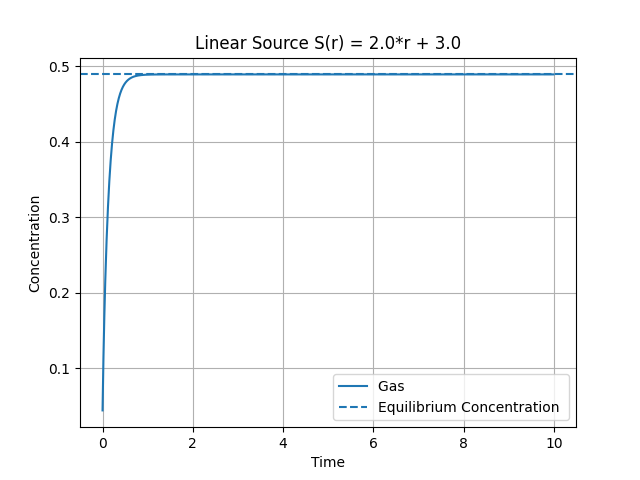
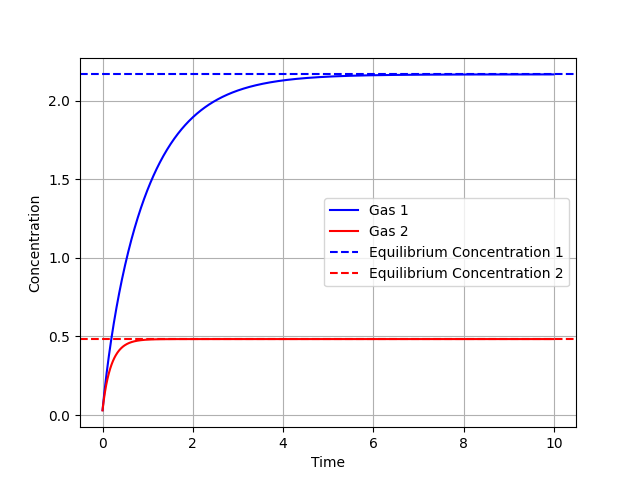
SD_2Eq_General_Source

diff --git a/utilities/MMS_verification/spectral_diffusion_algorithm_2_eqGS.py b/utilities/MMS_verification/spectral_diffusion_algorithm_2_eqGS.py
@@ -1,0 +1,127 @@
+import math
+import numpy as np
+import matplotlib.pyplot as plt
+
+def SpectralDiffusion2equations(gas_1, gas_2, initial_condition_gas_1, initial_condition_gas_2, parameter, increment):
+
+	n = 0
+	np1 = 1
+
+	diffusion_rate1 = 0.0
+	diffusion_rate2 = 0.0
+
+	diffusion_rate_coeff1 = 0.0
+	diffusion_rate_coeff2 = 0.0
+
+	source_rate_coeff_1 = 0.0
+	source_rate_coeff_2 = 0.0
+
+	source_rate1 = 0.0
+	source_rate2 = 0.0
+
+	projection_coeff = 0.0
+
+	gas_1_solution = 0.0
+	gas_2_solution = 0.0
+
+	pi = math.pi
+
+	diffusion_rate_coeff1 = pi**2 * parameter[1] / parameter[3]**2 # pi^2 * D1 / a^2
+	diffusion_rate_coeff2 = pi**2 * parameter[2] / parameter[3]**2 # pi^2 * D2 / a^2
+
+	projection_coeff = math.sqrt(8.0 / pi)
+
+	# source_rate_coeff_1 = projection_coeff * parameter[4] # - 2 sqrt(2/pi) * S1
+	# source_rate_coeff_2 = projection_coeff * parameter[5] # - 2 sqrt(2/pi) * S2
+
+	for n in range(int(parameter[0])):
+		np1 = n + 1
+		n_c = -(-1)**np1 / np1
+		n_coeff1 = - ((-1)**np1 / np1) * (parameter[3] * parameter[4] + parameter[5]) + (2 * parameter[3] * parameter[4]) * ((-1)**np1 - 1) / (np1**3 * pi**2)
+		n_coeff2 = - ((-1)**np1 / np1) * (parameter[3] * parameter[6] + parameter[7]) + (2 * parameter[3] * parameter[6]) * ((-1)**np1 - 1) / (np1**3 * pi**2)
+
+
+		diffusion_rate1 = diffusion_rate_coeff1 * np1**2 # pi^2 * D1 * n^2 / a^2
+		diffusion_rate2 = diffusion_rate_coeff2 * np1**2 # pi^2 * D2 * n^2 / a^2
+
+		source_rate1 = projection_coeff * n_coeff1 
+		source_rate2 = projection_coeff * n_coeff2
+
+		coeff_matrix = [
+			1.0 + (diffusion_rate1 + parameter[9] + parameter[10]) * increment,
+			- parameter[8] * increment,
+			- parameter[9] * increment,
+			1.0 + (diffusion_rate2 + parameter[8] + parameter[10]) * increment
+		]
+
+		initial_conditions = [
+			initial_condition_gas_1[n] + source_rate1 * increment,
+			initial_condition_gas_2[n] + source_rate2 * increment
+		]
+
+		Laplace2x2(coeff_matrix, initial_conditions)
+
+		initial_condition_gas_1[n] = initial_conditions[0]
+		initial_condition_gas_2[n] = initial_conditions[1]
+
+		gas_1_solution += projection_coeff * n_c * initial_conditions[0] / ((4.0 / 3.0) * pi)
+		gas_2_solution += projection_coeff * n_c * initial_conditions[1] / ((4.0 / 3.0) * pi)
+
+	gas_1[0] = gas_1_solution
+	gas_2[0] = gas_2_solution
+
+
+def Laplace2x2(A, b):
+	detA = A[0] * A[3] - A[1] * A[2]
+
+	if detA != 0.0:
+		detX = b[0] * A[3] - b[1] * A[1]
+		detY = b[1] * A[0] - b[0] * A[2]
+		b[0] = detX / detA
+		b[1] = detY / detA
+
+def main():
+
+	num_steps = 1000
+	increment = 0.01
+
+	time_vector = np.arange(num_steps) * increment
+
+	n_modes = 40
+	D1 = 0.1
+	D2 = 0.5
+	a = 1.0
+  # Source S1(r) = A1 * r + B1
+	A1,B1 = [2.0, 2.0]
+  # Source S1(r) = A1 * r + B1
+	A2,B2 = [1.0, 3.0]
+	b = 0.0
+	g = 0.0
+	L = 0.0
+
+	parameter = [n_modes, D1, D2, a, A1, B1, A2, B2, b, g, L]
+
+	initial_condition_gas_1 = np.zeros(parameter[0])
+	initial_condition_gas_2 = np.zeros(parameter[0])
+
+	gas_1 = np.zeros(num_steps)
+	gas_2 = np.zeros(num_steps)
+
+	for i in range(num_steps):
+		SpectralDiffusion2equations(gas_1[i:i+1], gas_2[i:i+1], initial_condition_gas_1, initial_condition_gas_2, parameter, increment)
+
+	c_eq1 = (-6 * a**2 / D1) * ( -((A1 * a + B1) / 90) + ( a * A1 / 240)  )
+	c_eq2 = (-6 * a**2 / D2) * ( -((A2 * a + B2) / 90) + ( a * A2 / 240)  )
+
+	plt.plot(time_vector, gas_1, color = 'b', label='Gas 1')
+	plt.plot(time_vector, gas_2, color = 'r', label='Gas 2')
+	plt.axhline(y=c_eq1, linestyle='--', color = 'b', label='Equilibrium Concentration 1')
+	plt.axhline(y=c_eq2, linestyle='--', color = 'r', label='Equilibrium Concentration 2')
+	plt.xlabel('Time')
+	plt.ylabel('Concentration')
+	plt.legend()
+	plt.grid()
+	plt.savefig('output.png')
+
+if __name__ == "__main__":
+	main()

diff --git a/utilities/MMS_verification/spectral_diffusion_algorithm_linear_source.py b/utilities/MMS_verification/spectral_diffusion_algorithm_linear_source.py
@@ -4,7 +4,7 @@ import matplotlib.pyplot as plt
 
 def SpectralDiffusion1equation(gas, initial_condition_gas, parameter, increment):
 
-#parameter = [n_modes, D1, a, S1] #We dont need b,g, nor L since we're only considering diffusion
+#parameter = [n_modes, D1, a, A, B]
 
 	n = 0
 	np1 = 1
@@ -18,8 +18,6 @@ def SpectralDiffusion1equation(gas, initial_condition_gas, parameter, increment)
 	
 	diffusion_rate_coeff = pi**2 * parameter[1] / parameter[2]**2 # pi^2 * D / a^2
 	projection_coeff = math.sqrt(8.0 / pi)
-	#source_rate_coeff = projection_coeff * parameter[3] # - 2 sqrt(2/pi) * S
-
 
 
 	for n in range(int(parameter[0])): #n in range of n_modes
@@ -51,8 +49,8 @@ n_modes = 40
 D = 3.0
 a = 2.0
 #Source has the shape ( S(r) = A * r + B )
-A = 4.0 / a
-B = 3.0
+A = 0.0
+B = 4.0
 
 parameter = [n_modes, D, a, A, B]
 
